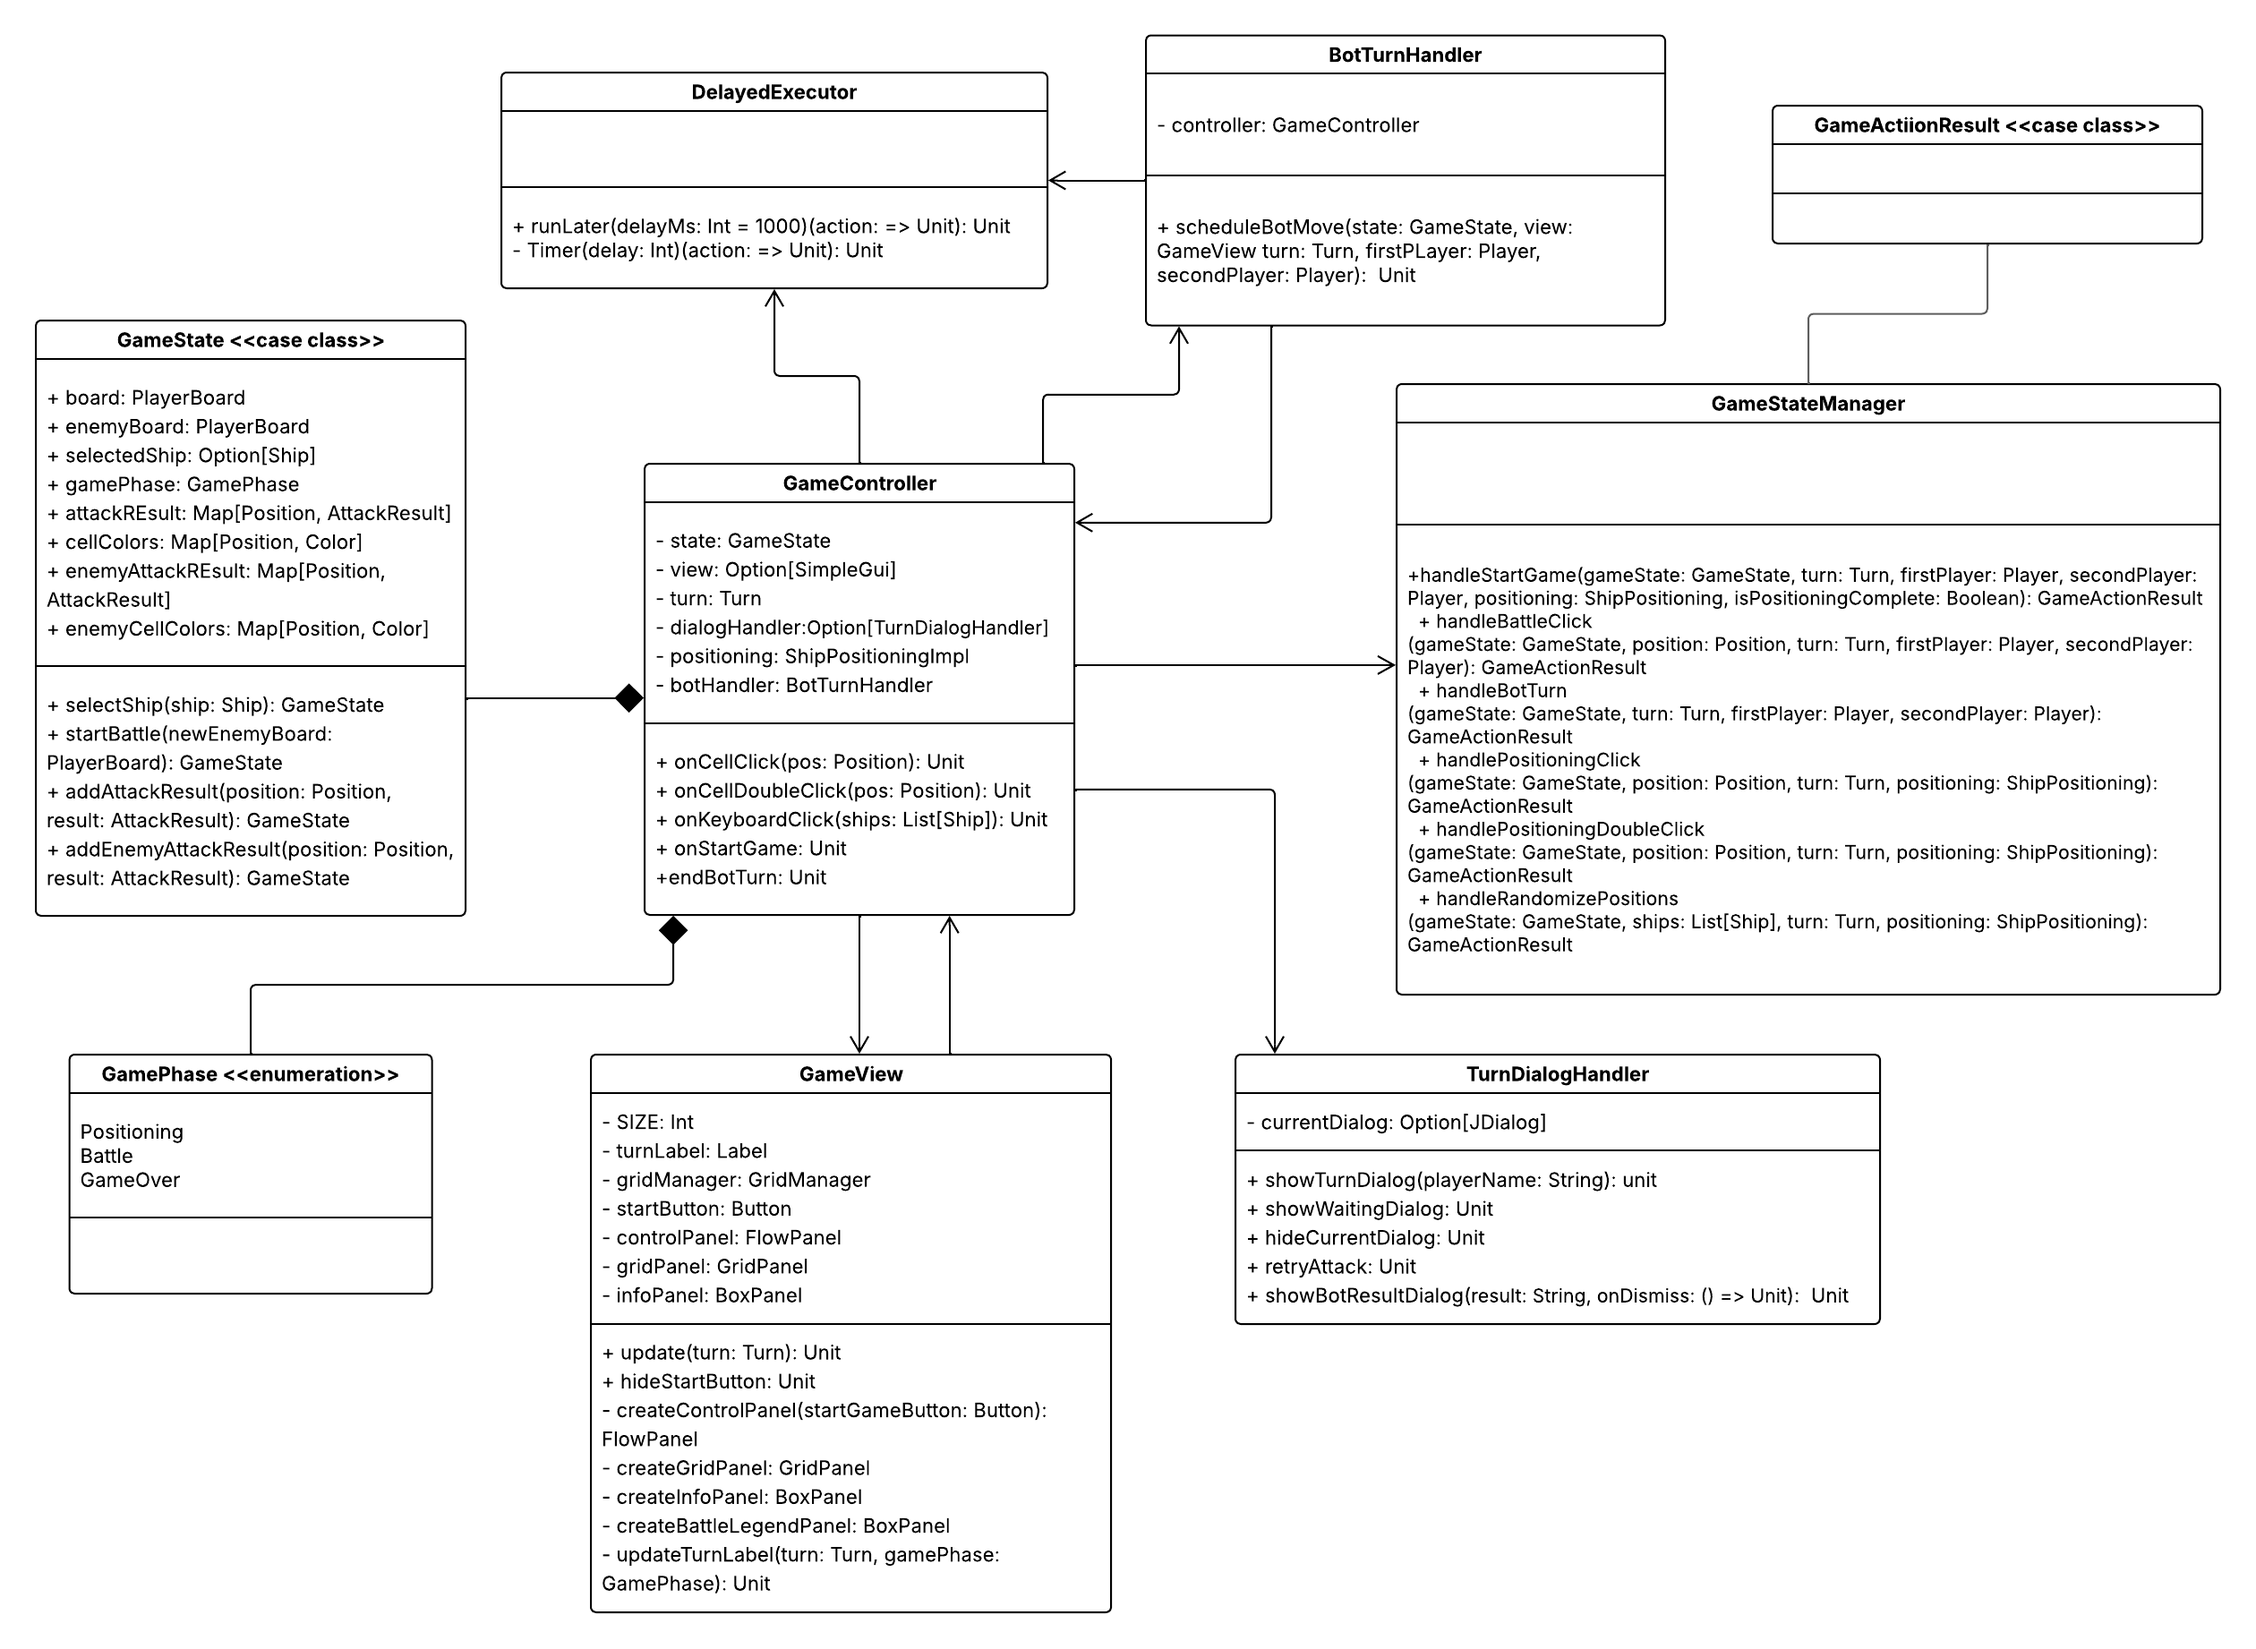
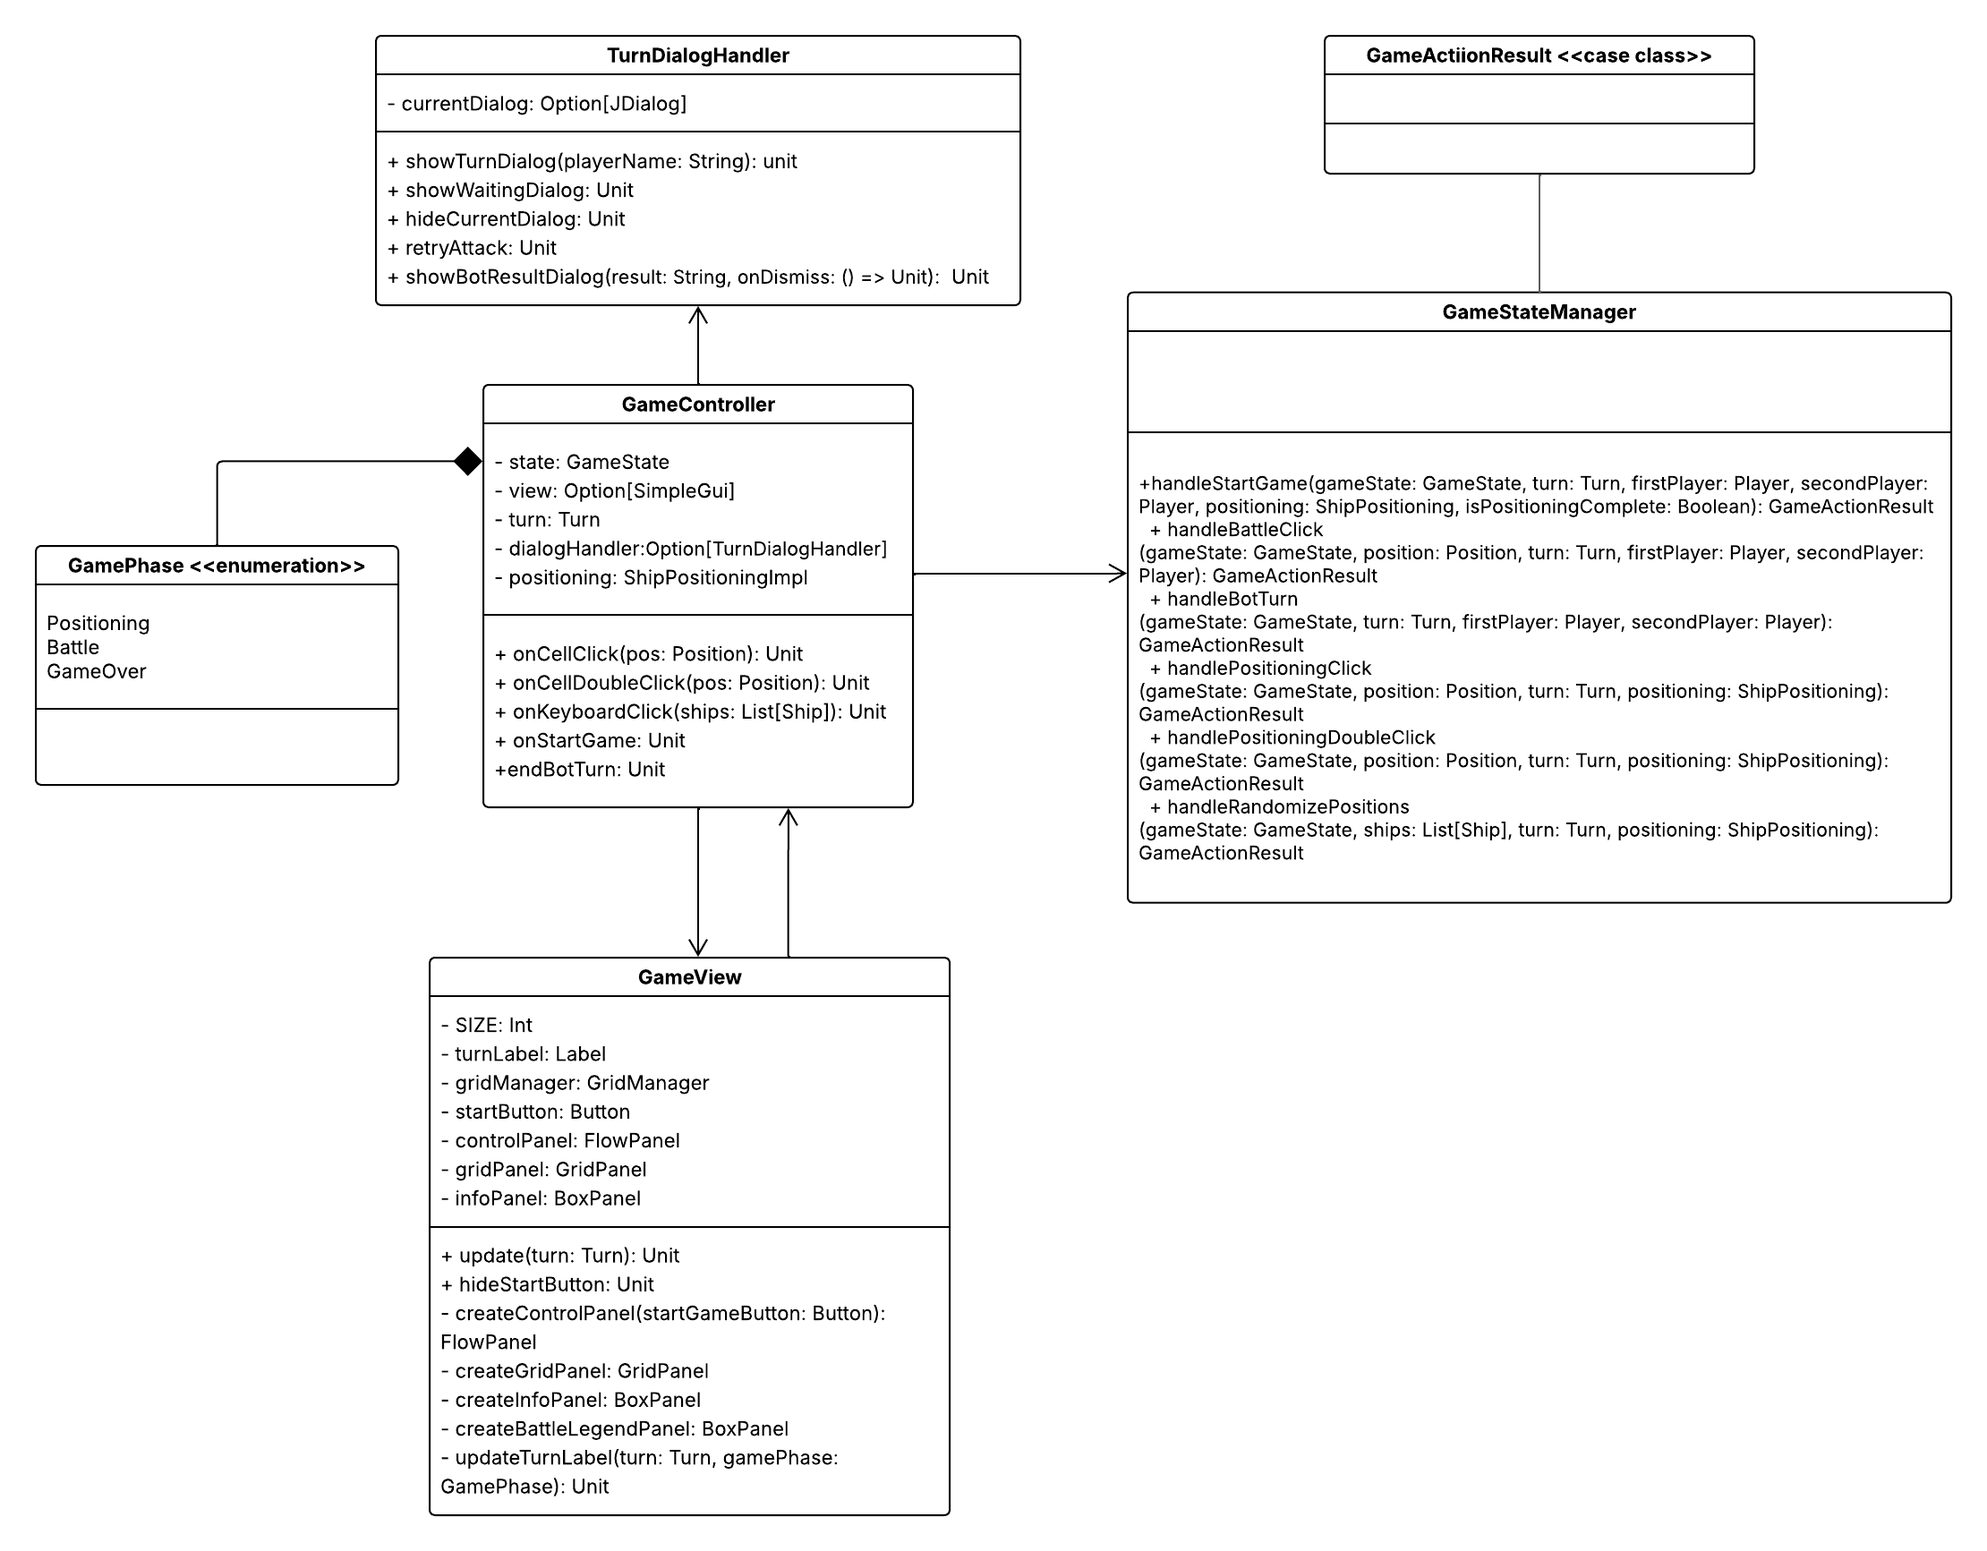
docs: update design document with View

diff --git a/docs/report/4-design-dettaglio.md b/docs/report/4-design-dettaglio.md
@@ -40,6 +40,24 @@ permettono la creazione modulare delle diverse strategie:
 <img src="../assets/img/strategy-class-diagram.png" alt="Strategy Class Diagram" width="1027px" height="487px" />
 
 ## View
+La view si occupa in un primo momento di gestire l'avvio della partita, che prevede le configurazioni iniziali, 
+e successivamente, la gestione della partita. C'è una chiara separazione tra logica di visualizzazione, gestione degli
+eventi e rendering. 
+## Setup View
+## Game View
+Sono stati utilizzati i seguenti pattern:
+- factory pattern: per `ButtonFactory`, che centralizza la creazione di bottoni, e `DialogFactory` che gestisce la
+  creazione dei dialog
+- observer pattern: per gestire facilmente le azioni dell'interfaccia utente come click o pressione dei tasti
+- state pattern: rendering basato su `GamePhase`, la view cambia in base alla fase della partita
+- strategy pattern: per incapsulare comportamenti alternativi, come per la gestione dei click. `ClickHandler` applica
+  strategie divers per i diversi tipi di click 
+- template method: i dialog hanno una struttura comune in `DialogFactory`, ma comportamenti specifici
+
+<div style="text-align: center;">
+    <img src="../assets/img/view-render-class-diagram.png" alt="View rendering Class Diagram" width="2159"/>
+    <img src="../assets/img/view-turn-class-diagram.png" alt="View turn dialog Class Diagram" width="658"/>
+</div>
 
 ## Controller
 Il controller si occupa di gestire l'andamento della partita facendo collaborare la logica e la grafica.
